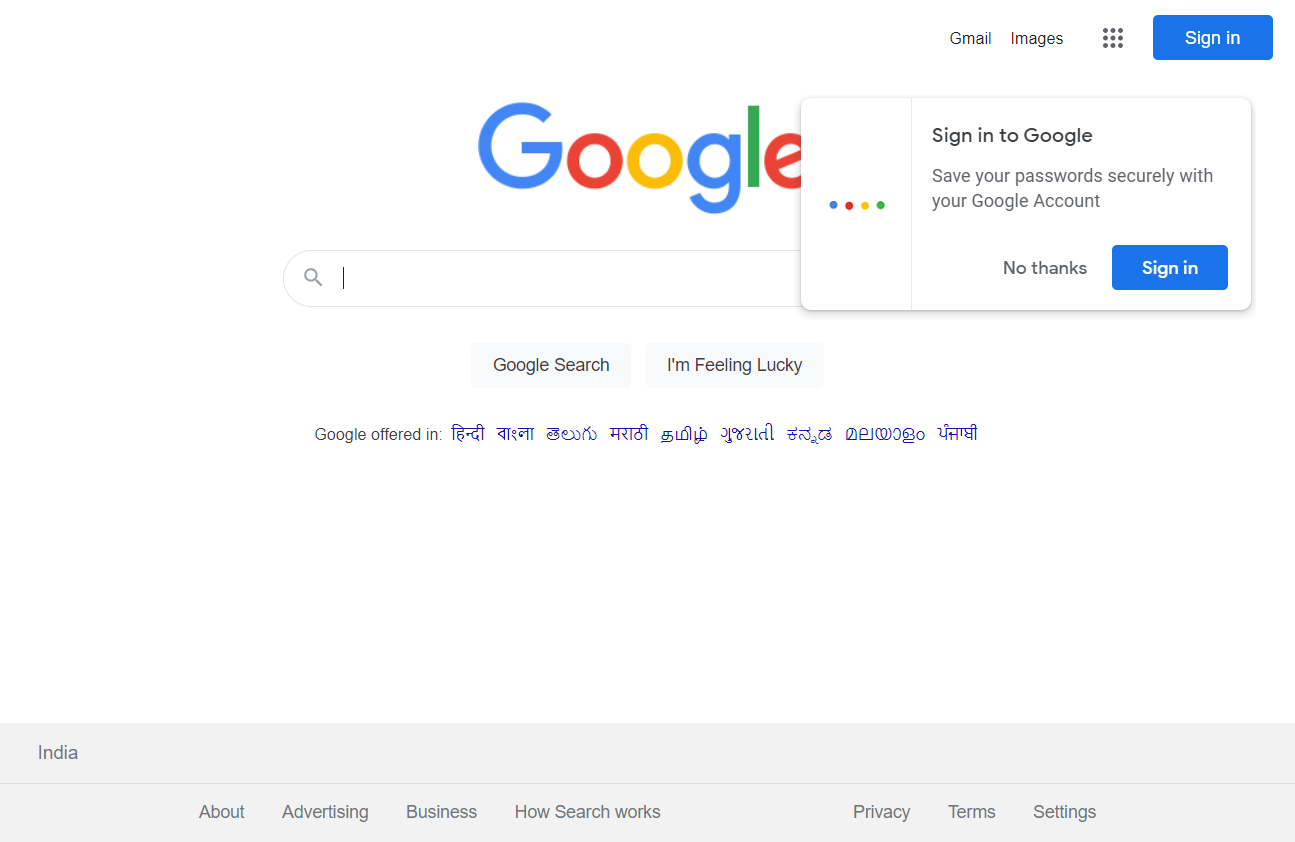
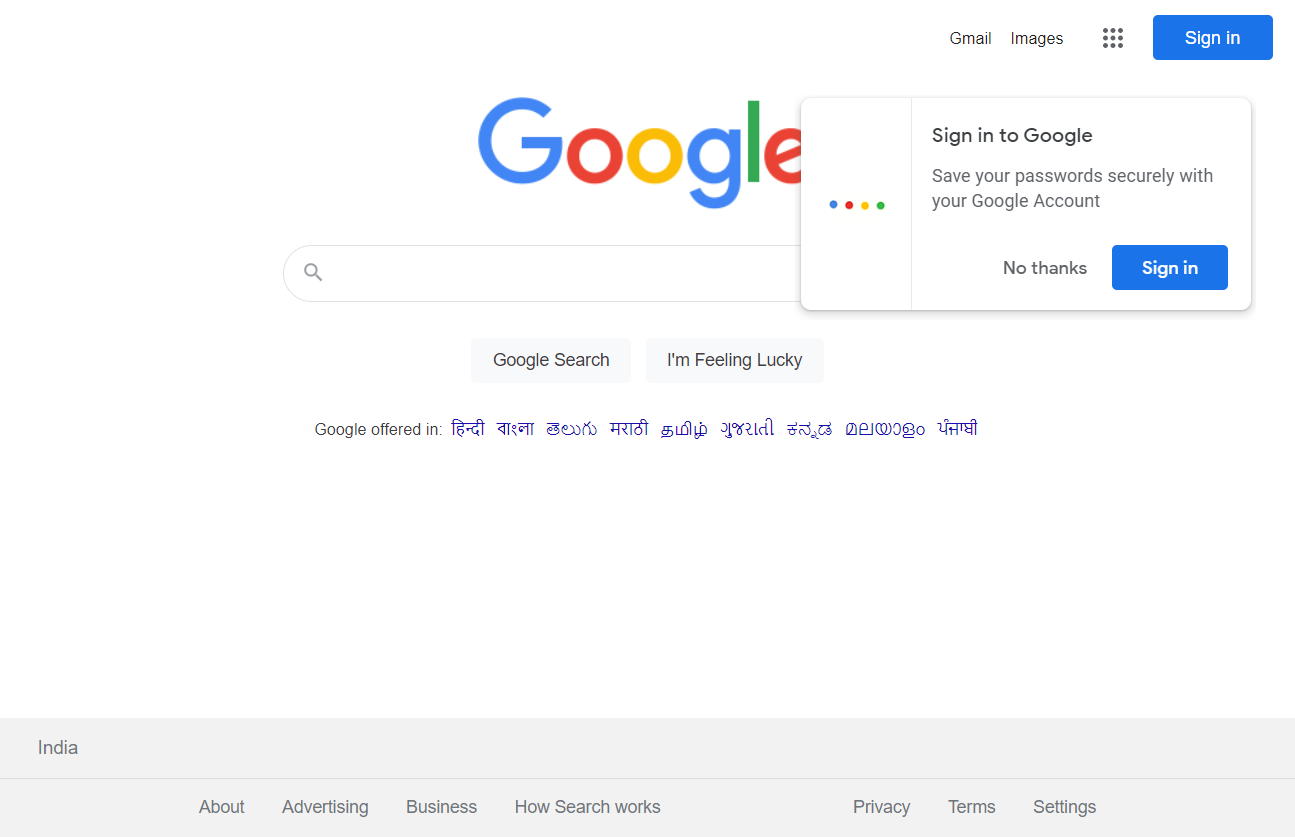
2nd commit

diff --git a/src/test/java/FullScreenshot.java b/src/test/java/FullScreenshot.java
@@ -1,0 +1,24 @@
+import io.github.bonigarcia.wdm.WebDriverManager;
+import org.openqa.selenium.WebDriver;
+import org.openqa.selenium.chrome.ChromeDriver;
+
+import ru.yandex.qatools.ashot.AShot;
+import ru.yandex.qatools.ashot.Screenshot;
+import ru.yandex.qatools.ashot.shooting.ShootingStrategies;
+
+import javax.imageio.ImageIO;
+import java.io.File;
+import java.io.IOException;
+
+public class FullScreenshot {
+
+    public static void main(String[] args) throws IOException {
+        WebDriverManager.chromedriver().setup();
+        WebDriver driver=new ChromeDriver();
+        driver.get("https://google.com");
+        Screenshot screenshot=new AShot().shootingStrategy(ShootingStrategies.viewportPasting(1000)).takeScreenshot(driver);
+        ImageIO.write(screenshot.getImage(),"PNG",new File("src/main/resources/Screenshots/PortPasting.png"));
+        driver.close();
+        driver.quit();
+    }
+}
